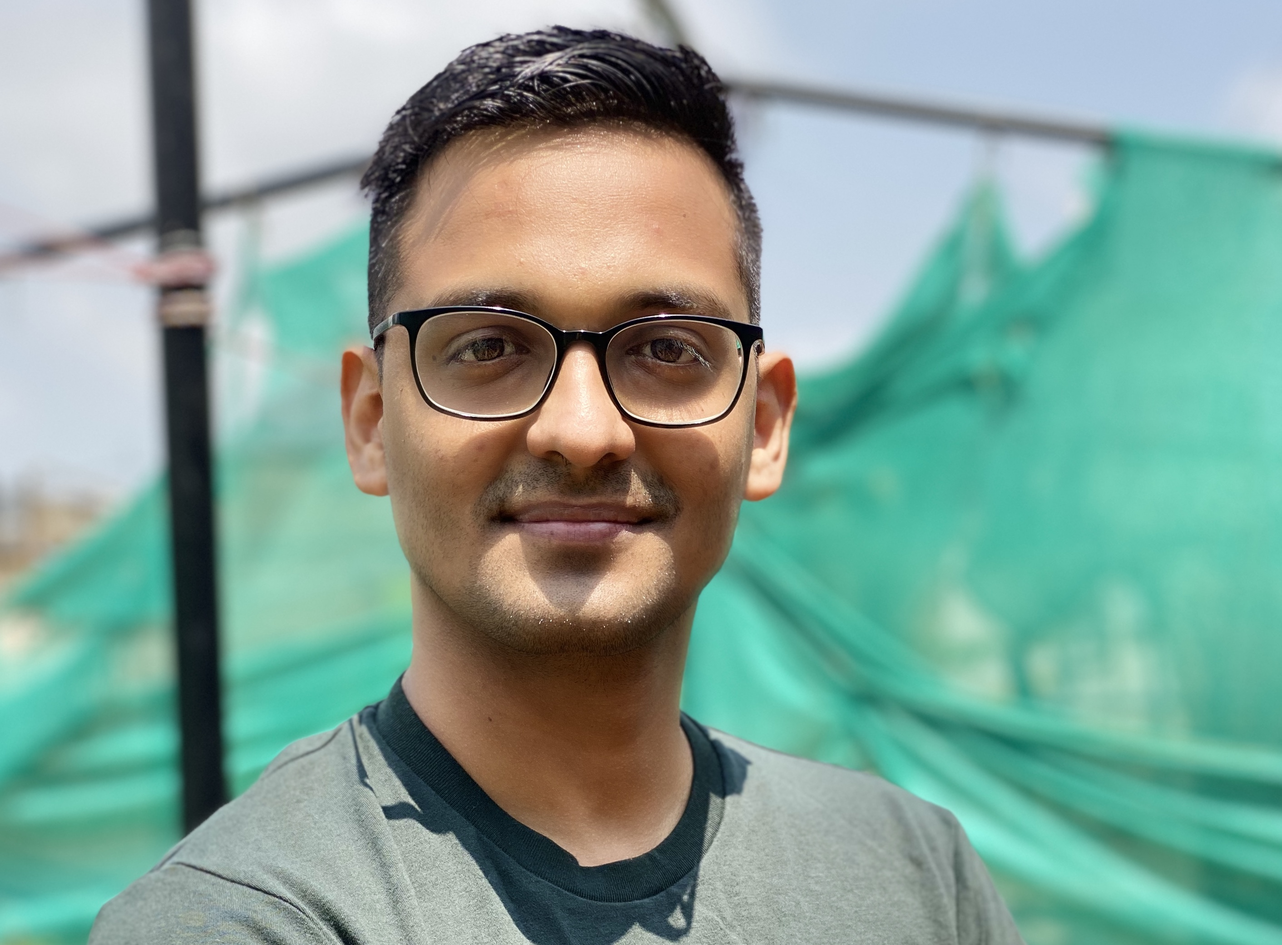
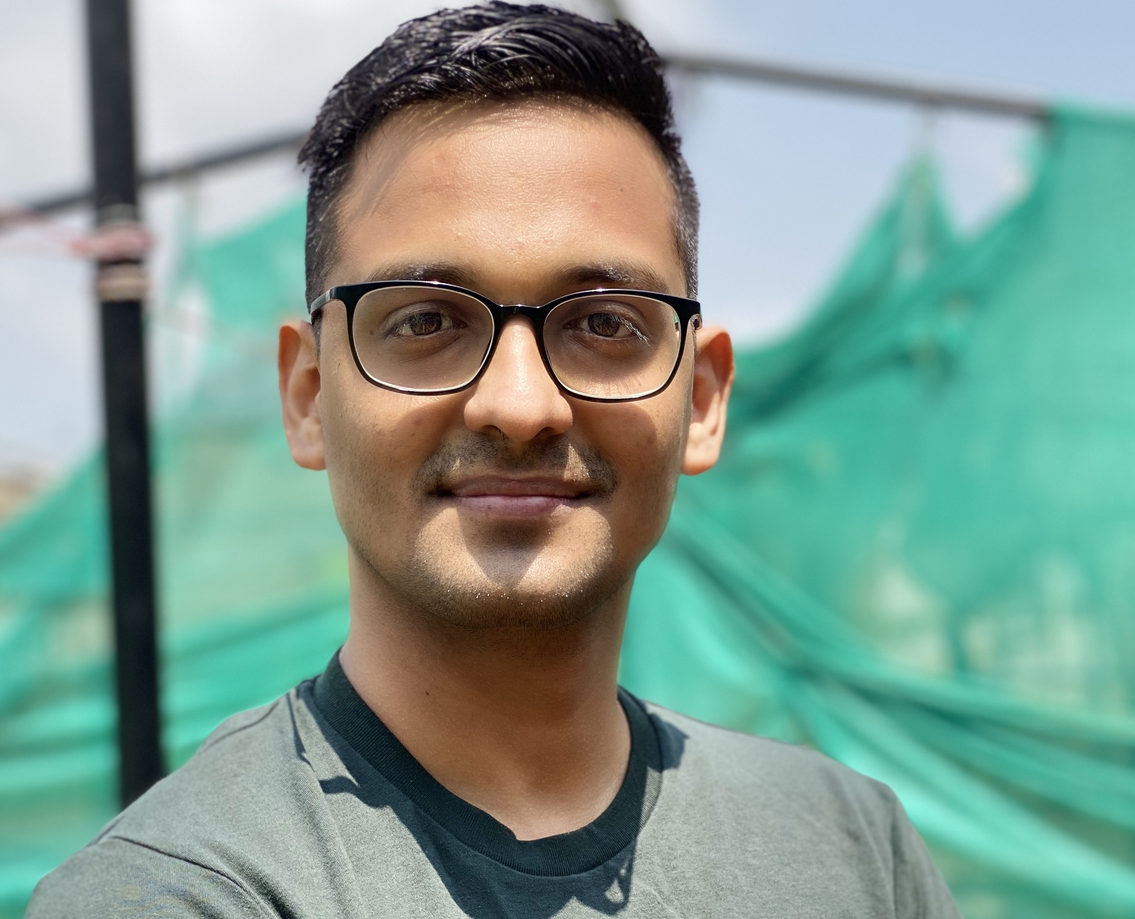
pic adjust

diff --git a/assets/css/pillar-1.css b/assets/css/pillar-1.css
@@ -8557,7 +8557,7 @@ a.theme-btn-on-bg:hover, a.theme-btn-on-bg:focus, a.theme-btn-on-bg:active, .the
 }
 
 .resume-header .picture {
-  width: 173px;
+  width: 231px;
 }
 
 .resume-header .name {
